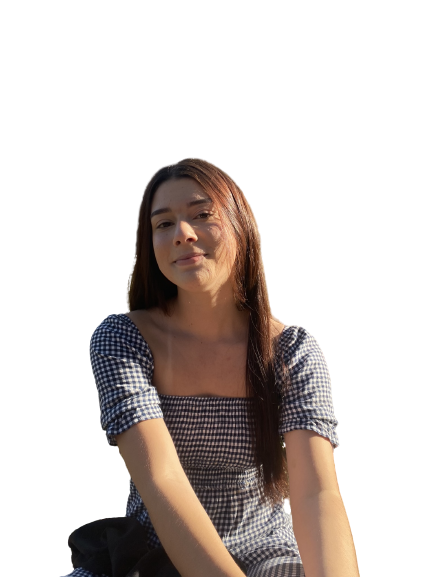
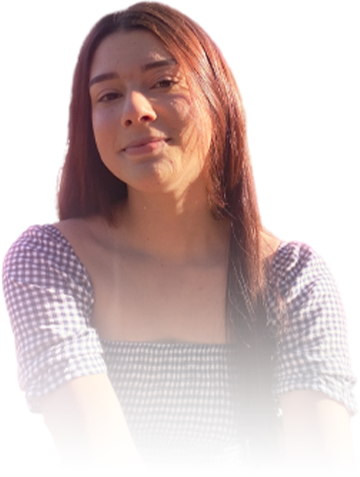
V.3.0
Upgrades

diff --git a/assets/style/pagestyle.css b/assets/style/pagestyle.css
@@ -1,6 +1,7 @@
 @charset "UTF-8";
 @import url('https://fonts.googleapis.com/css2?family=Lexend+Deca:wght@100..900&family=Noto+Sans:ital,wght@0,100..900;1,100..900&display=swap');
 @import url(../fonts/RELIGATH-Demo.otf);
+/*https://www.schemecolor.com/simple-pink-color-scheme.php*/
 
 :root {
     --primary-color: #e68bbe;
@@ -18,7 +19,7 @@
 }
 
 body {
-    background-color: #1f0012;
+    background-color: #D56094;
     padding-top: 50px; /* Ajuste conforme a altura do header */
 }
 
@@ -27,7 +28,6 @@ header {
     width: 100%;
     background-color: #e68bbe;
     position: fixed;
-    width: 100%; /* Certifique-se de que o header ocupe toda a largura */
     top: 0;
     z-index: 1000;
     text-align: center;
@@ -41,22 +41,25 @@ nav {
 }
 
 header h1 {
+    cursor: default;
+    position: absolute;
     text-transform: uppercase;
     text-align: left;
     font-family: "Religath";
-    width: 50%;
+    width: 80%;
     color: #fde4f2;
-    margin-left: 15px; /* Adicione um espaçamento à esquerda, se necessário */
+    margin-left: 15px; 
 }
 
 div#icons {
-    width: 50%;
-    transform: scale(1.0);
-    margin-left: 38%;
+    width: 300px;
+    transform: scale(1.1);
+    margin-left: 45%;
+    text-align: right;
+
 }
 
 div#icons a {
-    text-align: right;
     color: white;
     font-family: "Lexend Deca";
     text-decoration: none;
@@ -68,8 +71,7 @@ nav span {
 
 main {
     padding: 20px;
-    background: radial-gradient(circle, #ac166b 0%, rgba(27, 5, 19, 0.533) 100%);
-    background-color: #1f0012;
+    background: radial-gradient(circle, #F47DBB 0%, #D56094 100%);
     color: #fde4f2;
     width: 100%;
     height: 94vh;
@@ -78,17 +80,37 @@ main {
 main > img#nic {
     display: block;
     margin: auto;
-    width: 300px;
+    margin-top: 50px;
+    width: 240px;
+    animation: appear 0.8s linear;
+    transition: 0.5s;
+}
+
+main > img#nic:hover {
+    width: 245px;
+}
+
+p > span {
+    font-weight: bold;
 }
 
 main h2 {
+    cursor: default;
     text-align: center;
+    font-weight: 300;
     padding: 10px;
+    animation: appear 0.8s linear;
+    transition: 0.5s;
+}
+
+main h2:hover {
+    text-shadow: 0px 0px 20px white;
 }
 
 main p {
     text-align: justify;
     padding: 10px;
+    animation: appear 0.8s linear;
 }
 
 section#biblio {
@@ -113,6 +135,7 @@ form {
 form > input#data {
     background: transparent;
     border: none;
+    border-radius: none;
     outline: none;
     color: #eea1cd;
     border-bottom: 1px solid #e68bbe;
@@ -143,8 +166,8 @@ button {
 }
 
 button:hover {
-    background: #ac166b;
-    color: #f9cee7;
+    background: rgb(177, 46, 118);
+    color: #ffffff;
     border: none;
     padding: 12px;
 }
@@ -155,11 +178,12 @@ section#res {
 }
 
 section#res article {
+    animation: appear 0.7s linear;
     display: none; /* Inicialmente escondido */
     border-radius: 40px 40px 0px 0px;
     padding: 20px;
     color: #fde4f2;
-    background-color: #1f0012;
+    background-color: #ac166b;
 }
 
 section article {
@@ -167,7 +191,8 @@ section article {
     border-radius: 40px 40px 0px 0px;
     padding: 20px;
     color: #fde4f2;
-    background-color: #1f0012;
+    background: radial-gradient(circle, #F47DBB 0%, #D56094 100%);
+    background-color: #ac166b;
 }
 
 section#biblio h3 {
@@ -201,10 +226,16 @@ p#para {
 }
 
 video#video {
+    animation: appear 1s linear;
     display: block;
     margin: auto;
     width: 200px;
     border-radius: 20px;
-    border: 2px solid #e68bbe;
+    border: 2px solid #f9cee7;
     box-shadow: 0px 0px 20px #ffaadac7;
+}
+
+@keyframes appear { 
+    from {opacity: 0; scale: 0.8;} 
+    to {opacity: 1; scale: 1;}
 }

diff --git a/assets/pages/home.html b/assets/pages/home.html
@@ -30,7 +30,7 @@
     <main>
         <h2>Parabéns, você conseguiu!</h2>
         <article>
-            <p>Lorem ipsum dolor, sit amet consectetur adipisicing elit. Ab sapiente aliquam id, vitae odit deleniti tempore eligendi non debitis hic aperiam! Quas, harum? Facere ex voluptate fugit, fuga excepturi rem.</p>
+            <p>Mesmo após um desafio para conseguir acessar esse acervo, você finalmente conquistou acesso ao nosso site. Eu sabia que você ia conseguir! Agora, só aproveite o que temos a oferecer, que foi feito  com muito <span>amor</span> e <span>carinho</span>!</p>
         </article>
         <img src="../images/nicsemfundo.png" alt="Nicole!" width="150px" id="nic">
     </main>
@@ -52,36 +52,6 @@
             </article>
         </section>
 </body>
-<script>
-        let secdate = document.getElementById("res");
-        let article = secdate.querySelector("article");
-        let data = document.getElementById("data");
-        let sucesso = document.getElementById("sucesso");
-        let dia = document.getElementById("dia")
-        let imagem = document.getElementById("innerimg")
-        let texto = document.getElementById("para")
-        let video = document.getElementById("video")
-
-    function clicar() {
-        if (data.value == "2023-04-28") {
-            sucesso.innerHTML = `<p>Date encontrado com sucesso! 👇</p>` 
-            article.style.display = "block";
-            secdate.style.display = "block";
-            sucesso.style.display = "block";
-
-            dia.innerHTML = `<p>Date 28/04/2023 💗</p>` 
-            video.src = "../videos/vinteoito.mp4"
-            texto.innerHTML = `<p>Esse foi o dia em que nos vimos pessoalmente pela primeira vez.</p> <p>Lorem, ipsum dolor sit amet consectetur adipisicing elit. Harum repudiandae repellendus in optio eaque, deleniti rem deserunt voluptates illum accusamus veritatis enim iusto nesciunt quaerat perferendis? Eos iste ab placeat.</p>  <p>Aqui temos o único registro decente desse dia:</p>` 
-            imagem.src = ""
-        } else if (data.value == "2025-03-21") {
-            sucesso.innerHTML = `<p>Date encontrado com sucesso! 👇</p>` 
-
-        } else if (data.value == "2025-03-20") {
-
-        } else {
-            secdate.style.display = "none";
-            sucesso.innerHTML = `<p>Date não encontrado.</p>` 
-        }
-    }  
+<script src="../javascript/pagescript.js">
 </script>
 </html>

diff --git a/assets/javascript/pagescript.js b/assets/javascript/pagescript.js
@@ -1,0 +1,30 @@
+let secdate = document.getElementById("res");
+let article = secdate.querySelector("article");
+let data = document.getElementById("data");
+let sucesso = document.getElementById("sucesso");
+let dia = document.getElementById("dia")
+let imagem = document.getElementById("innerimg")
+let texto = document.getElementById("para")
+let video = document.getElementById("video")
+
+function clicar() {
+if (data.value == "2023-04-28") {
+    sucesso.innerHTML = `<p>Date encontrado com sucesso! 👇</p>` 
+    article.style.display = "block";
+    secdate.style.display = "block";
+    sucesso.style.display = "block";
+
+    dia.innerHTML = `<p>Date 28/04/2023 💗</p>` 
+    video.src = "../videos/vinteoito.mp4"
+    texto.innerHTML = `<p>Esse foi o dia em que nos vimos pessoalmente pela primeira vez.</p> <p>Lorem, ipsum dolor sit amet consectetur adipisicing elit. Harum repudiandae repellendus in optio eaque, deleniti rem deserunt voluptates illum accusamus veritatis enim iusto nesciunt quaerat perferendis? Eos iste ab placeat.</p>  <p>Aqui temos o único registro decente desse dia:</p>` 
+    imagem.src = ""
+} else if (data.value == "2025-03-21") {
+    sucesso.innerHTML = `<p>Date encontrado com sucesso! 👇</p>` 
+
+} else if (data.value == "") {
+    window.alert("[ERRO] Inserir Data")
+} else {
+    secdate.style.display = "none";
+    sucesso.innerHTML = `<p>Date não encontrado.</p>` 
+}
+}  

diff --git a/assets/javascript/teste.js b/assets/javascript/teste.js
@@ -1,0 +1,6 @@
+let nic = new Date(2023, 3, 24); // Corrija o mês para abril (3)
+let data = new Date();
+let dif = data.getTime() - nic.getTime();
+let dias = Math.floor(dif / (1000 * 60 * 60 * 24)); // Corrija para calcular dias corretamente
+
+console.log(dias);

diff --git a/assets/javascript/contardias.js b/assets/javascript/contardias.js
@@ -1,0 +1,6 @@
+let nic = new Date(2023, 3, 24); 
+let data = new Date();
+let dif = data.getTime() - nic.getTime();
+let dias = Math.floor(dif / (1000 * 60 * 60 * 24)); 
+
+console.log(dias);
